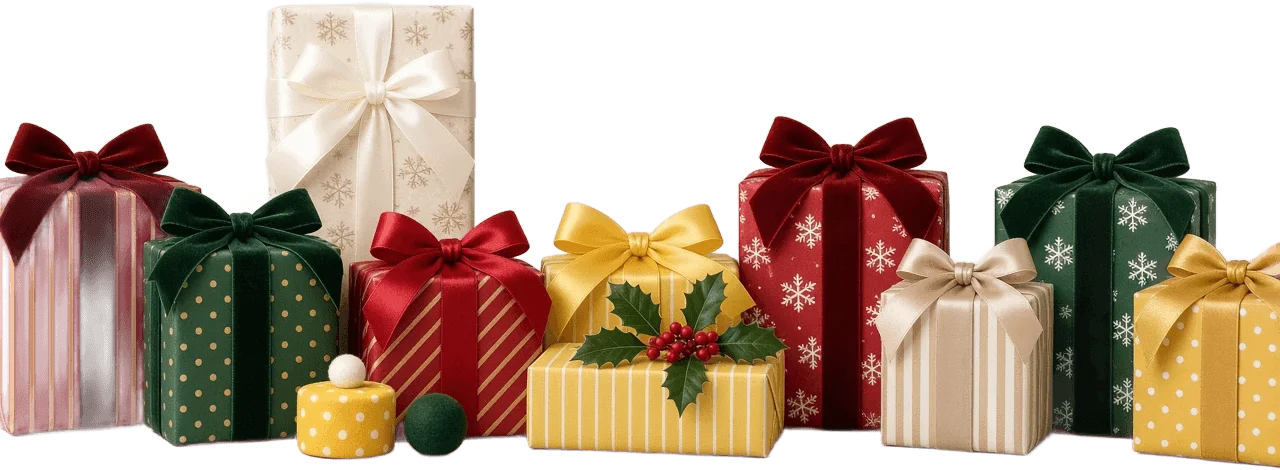
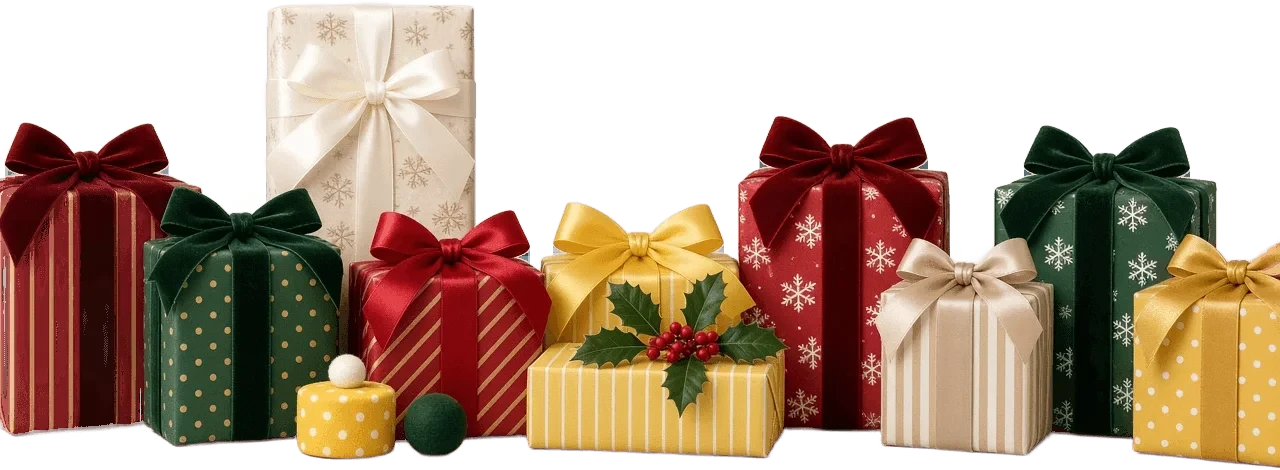
Opaque presents cutout; presents hide the puppet's cut-off legs on the live-mode card

diff --git a/src/components/landing/ModesScene.tsx b/src/components/landing/ModesScene.tsx
@@ -107,8 +107,8 @@ export function ModePicture({ mode }: { mode: (typeof modes)[number] }) {
   if (mode === "sync")
     return (
       <Vignette set="stage" focus="50% 40%" className="absolute! inset-0 rounded-none">
-        <SantaPuppet className="absolute left-[31%] top-[14%] w-[38%]" />
-        <Cast who="presents" className="-bottom-[6%] left-[20%] w-[60%]" />
+        <SantaPuppet className="absolute left-[30%] top-[15%] w-[40%]" />
+        <Cast who="presents" className="-bottom-[4%] left-[8%] w-[84%]" />
       </Vignette>
     );
   return (
